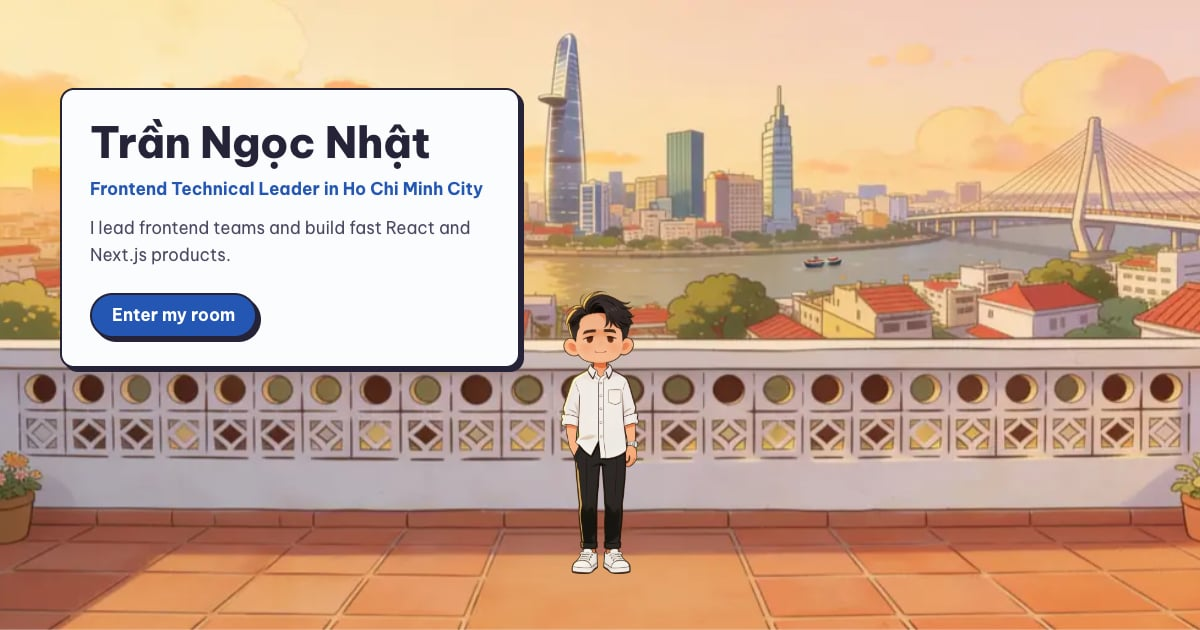
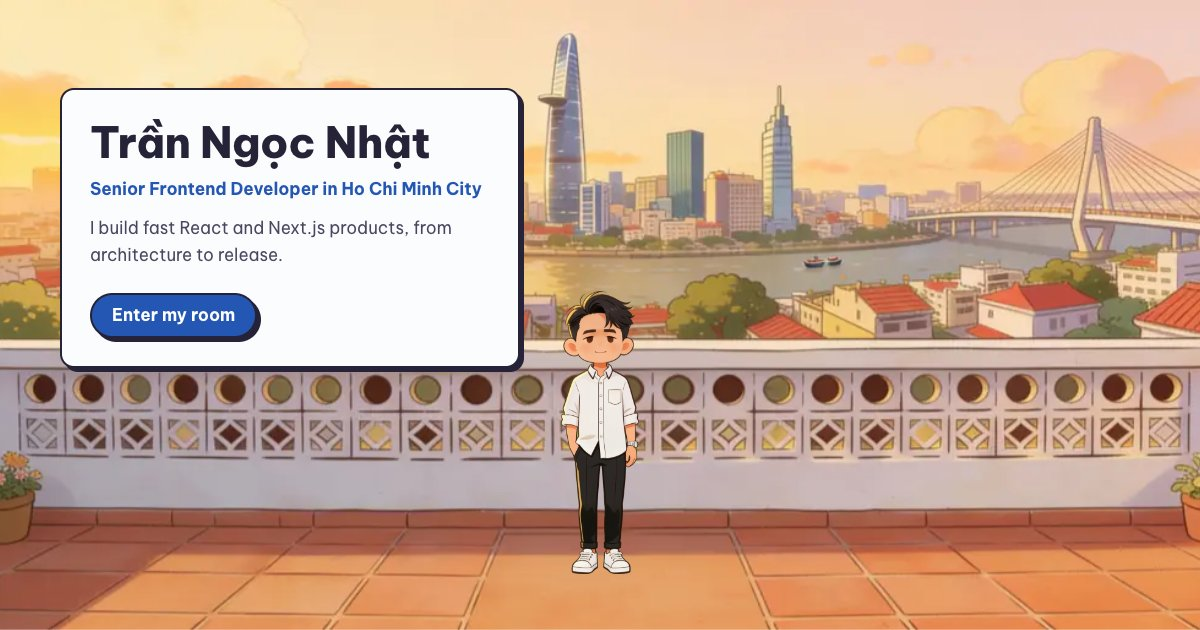
feat: update role references to Senior Frontend Developer across multiple files

Changed region(s): [[0.0617, 0.2714, 0.4008, 0.4222]]

diff --git a/src/features/projects/constants/projects.ts b/src/features/projects/constants/projects.ts
@@ -19,7 +19,7 @@ export const projects: Project[] = [
     category: 'store',
     kind: 'Cinema booking',
     what: 'Online movie-ticket booking: transaction-heavy, real-time, many people booking at once.',
-    role: 'Frontend Lead',
+    role: 'Senior Frontend Developer',
     period: '12/2023 – 04/2024',
     stack: ['Next.js', 'TypeScript', 'GraphQL'],
     url: 'https://cinestar.com.vn/',
@@ -36,7 +36,7 @@ export const projects: Project[] = [
     category: 'store',
     kind: 'E-commerce',
     what: 'Large mobile and electronics store serving thousands of daily active users.',
-    role: 'Frontend Lead',
+    role: 'Senior Frontend Developer',
     period: '06/2024 – 11/2024',
     stack: ['Next.js', 'TypeScript', 'GraphQL', 'TanStack Query'],
     url: 'https://bachlongmobile.com/',
@@ -52,7 +52,7 @@ export const projects: Project[] = [
     category: 'learning',
     kind: 'E-learning',
     what: 'End-to-end platform for selling and delivering online courses.',
-    role: 'Frontend Lead',
+    role: 'Senior Frontend Developer',
     period: '02/2024 – Present',
     stack: ['Next.js', 'TypeScript', 'GraphQL', 'GSAP', 'Socket.IO'],
     url: 'https://khanhhung.academy/learn/',
@@ -68,7 +68,7 @@ export const projects: Project[] = [
     category: 'store',
     kind: 'Online pharmacy',
     what: 'Multi-branch pharmacy store with complex categories and prescription handling.',
-    role: 'Frontend Lead',
+    role: 'Senior Frontend Developer',
     period: '11/2025 – 04/2026',
     stack: ['Next.js', 'TypeScript', 'GraphQL', 'OpenAI'],
     url: 'https://nhathuocpharceco.com.vn/',
@@ -102,7 +102,7 @@ export const projects: Project[] = [
     category: 'learning',
     kind: 'Internal learning',
     what: 'Teaching and self-learning platform with real-time features and a full admin.',
-    role: 'Frontend Lead',
+    role: 'Senior Frontend Developer',
     period: '03/2025 – 06/2025',
     stack: ['Next.js', 'TypeScript', 'GraphQL', 'GSAP', 'Socket.IO'],
     url: 'https://skillhub.mona.academy/',
@@ -114,7 +114,7 @@ export const projects: Project[] = [
     category: 'store',
     kind: 'Fashion e-commerce',
     what: 'Minimal, high-performance fashion store by Hydra Studio.',
-    role: 'Frontend Lead',
+    role: 'Senior Frontend Developer',
     period: '09/2025 – 01/2026',
     stack: ['Next.js', 'TypeScript', 'GraphQL'],
     url: 'https://hydrashop.vn/',
@@ -126,7 +126,7 @@ export const projects: Project[] = [
     category: 'store',
     kind: 'Motorbike parts store',
     what: 'Genuine Honda, Yamaha, SYM, Suzuki and Piaggio parts, wholesale and retail.',
-    role: 'Frontend Lead',
+    role: 'Senior Frontend Developer',
     period: '04/2024 – 07/2024',
     stack: ['Next.js', 'TypeScript', 'GraphQL'],
     url: 'https://kimthanh.com.vn/',
@@ -141,7 +141,7 @@ export const projects: Project[] = [
     category: 'saas',
     kind: 'Real-estate listings',
     what: 'Listing platform with wallet top-up, posting packages and boosted listings.',
-    role: 'Team Lead, team of 4',
+    role: 'Senior Developer, team of 4',
     period: '05/2026 – 07/2026',
     stack: ['Next.js', 'Golang (familiar, AI-assisted)'],
     status: 'Not launched yet',

diff --git a/src/shared/constants/site.ts b/src/shared/constants/site.ts
@@ -4,16 +4,16 @@ export const site = {
   url: 'https://www.ngocnhat.info',
   name: 'Trần Ngọc Nhật',
   shortName: 'Nhật',
-  role: 'Frontend Technical Leader',
+  role: 'Senior Frontend Developer',
   location: 'Tan Binh, Ho Chi Minh City',
   timezone: 'GMT+7',
   email: 'ngocnhat2k1@gmail.com',
   phone: '+84 395 115 641',
   github: 'https://github.com/ngocnhat2k1',
   linkedin: 'https://www.linkedin.com/in/tran-ngoc-nhat-109a06279/',
-  tagline: 'I lead frontend teams and build fast React and Next.js products.',
+  tagline: 'I build fast React and Next.js products, from architecture to release.',
   summary:
-    'Frontend Technical Leader with 3+ years of React and Next.js, building e-commerce, ERP and e-learning platforms. I lead small frontend teams of 5+ people: picking the stack, shaping the architecture, reviewing code, and keeping performance and code quality high.',
+    'Senior Frontend Developer with 3+ years of React and Next.js, building e-commerce, ERP and e-learning platforms. On frontend teams of 5+ people I pick the stack, shape the architecture, review code, and keep performance and code quality high.',
   now: 'Since April 2026 I also own NHAHANG.AI end to end, a restaurant-management SaaS, where I am growing my backend and infrastructure skills.',
 } as const;
 

diff --git a/src/features/about/constants/career.ts b/src/features/about/constants/career.ts
@@ -63,11 +63,11 @@ import type { SkillGroup } from '../types/skill';
 export const experience = [
   {
     company: 'The Mona (formerly MONA MEDIA)',
-    role: 'Frontend Technical Leader / Team Lead',
+    role: 'Senior Frontend Developer',
     period: '09/2023 – Present',
     points: [
-      'Lead a frontend team of 5+ people: task assignment, mentoring, code review and technical coaching.',
-      'Act as Tech Lead: define technical solutions and make stack and architecture decisions for each project.',
+      'Work with a frontend team of 5+ people: task breakdown, mentoring, code review and technical coaching.',
+      'Define technical solutions and make stack and architecture decisions for each project.',
       'Design and maintain frontend architecture for retail, e-commerce, ERP and e-learning platforms.',
       'Build reusable, scalable React and Next.js components using OOP, design patterns and SOLID principles.',
       'Optimise page load, rendering and API interaction to raise Lighthouse scores and SEO ranking.',
@@ -175,7 +175,7 @@ export const skills: SkillGroup[] = [
     ],
   },
   {
-    group: 'Leadership',
+    group: 'Teamwork',
     icon: Flag,
     tint: 'bg-butter',
     span: 2,

diff --git a/src/features/room/constants/lines.ts b/src/features/room/constants/lines.ts
@@ -38,7 +38,7 @@ export const clockLine = (time: string) => `It's ${time} here in Saigon.`;
 export const pinnedSkills = {
   'Next.js': 'Next.js runs every project on my monitor.',
   React: 'React every day: reusable, scalable components for the team.',
-  TypeScript: 'TypeScript on almost every project I lead.',
+  TypeScript: 'TypeScript on almost every project I work on.',
   Tailwind: 'Tailwind for fast, consistent UI. This site uses it too.',
   GSAP: 'GSAP for the transitions on Skillhub and Khanh Hung Academy.',
   GraphQL: 'GraphQL with Apollo on Cinestar, Bachlong and most of my stores.',

diff --git a/src/features/room/components/RoomDecor.tsx b/src/features/room/components/RoomDecor.tsx
@@ -20,7 +20,7 @@ export function Area({ left, top, width, height, children }: { left: number; top
 
 const code = [
   [['k', 'const '], ['v', 'nhat'], ['p', ' = {']],
-  [['p', '  role: '], ['s', "'FE Lead'"], ['p', ',']],
+  [['p', '  role: '], ['s', "'Senior FE'"], ['p', ',']],
   [['p', '  stack: ['], ['s', "'Next.js'"], ['p', ', '], ['s', "'TS'"], ['p', '],']],
   [['p', '}; '], ['f', 'ship'], ['p', '(nhat);']],
 ] as const;

diff --git a/README.md b/README.md
@@ -1,6 +1,6 @@
 # ngocnhat.info
 
-Portfolio of **Trần Ngọc Nhật**, Frontend Technical Leader in Ho Chi Minh City.
+Portfolio of **Trần Ngọc Nhật**, Senior Frontend Developer in Ho Chi Minh City.
 You land on a balcony over Saigon, walk into an illustrated room, and every object in it opens part of the portfolio: projects on the laptop, the résumé on the pinboard, a piano and a guitar that actually play.
 
 ## Stack
